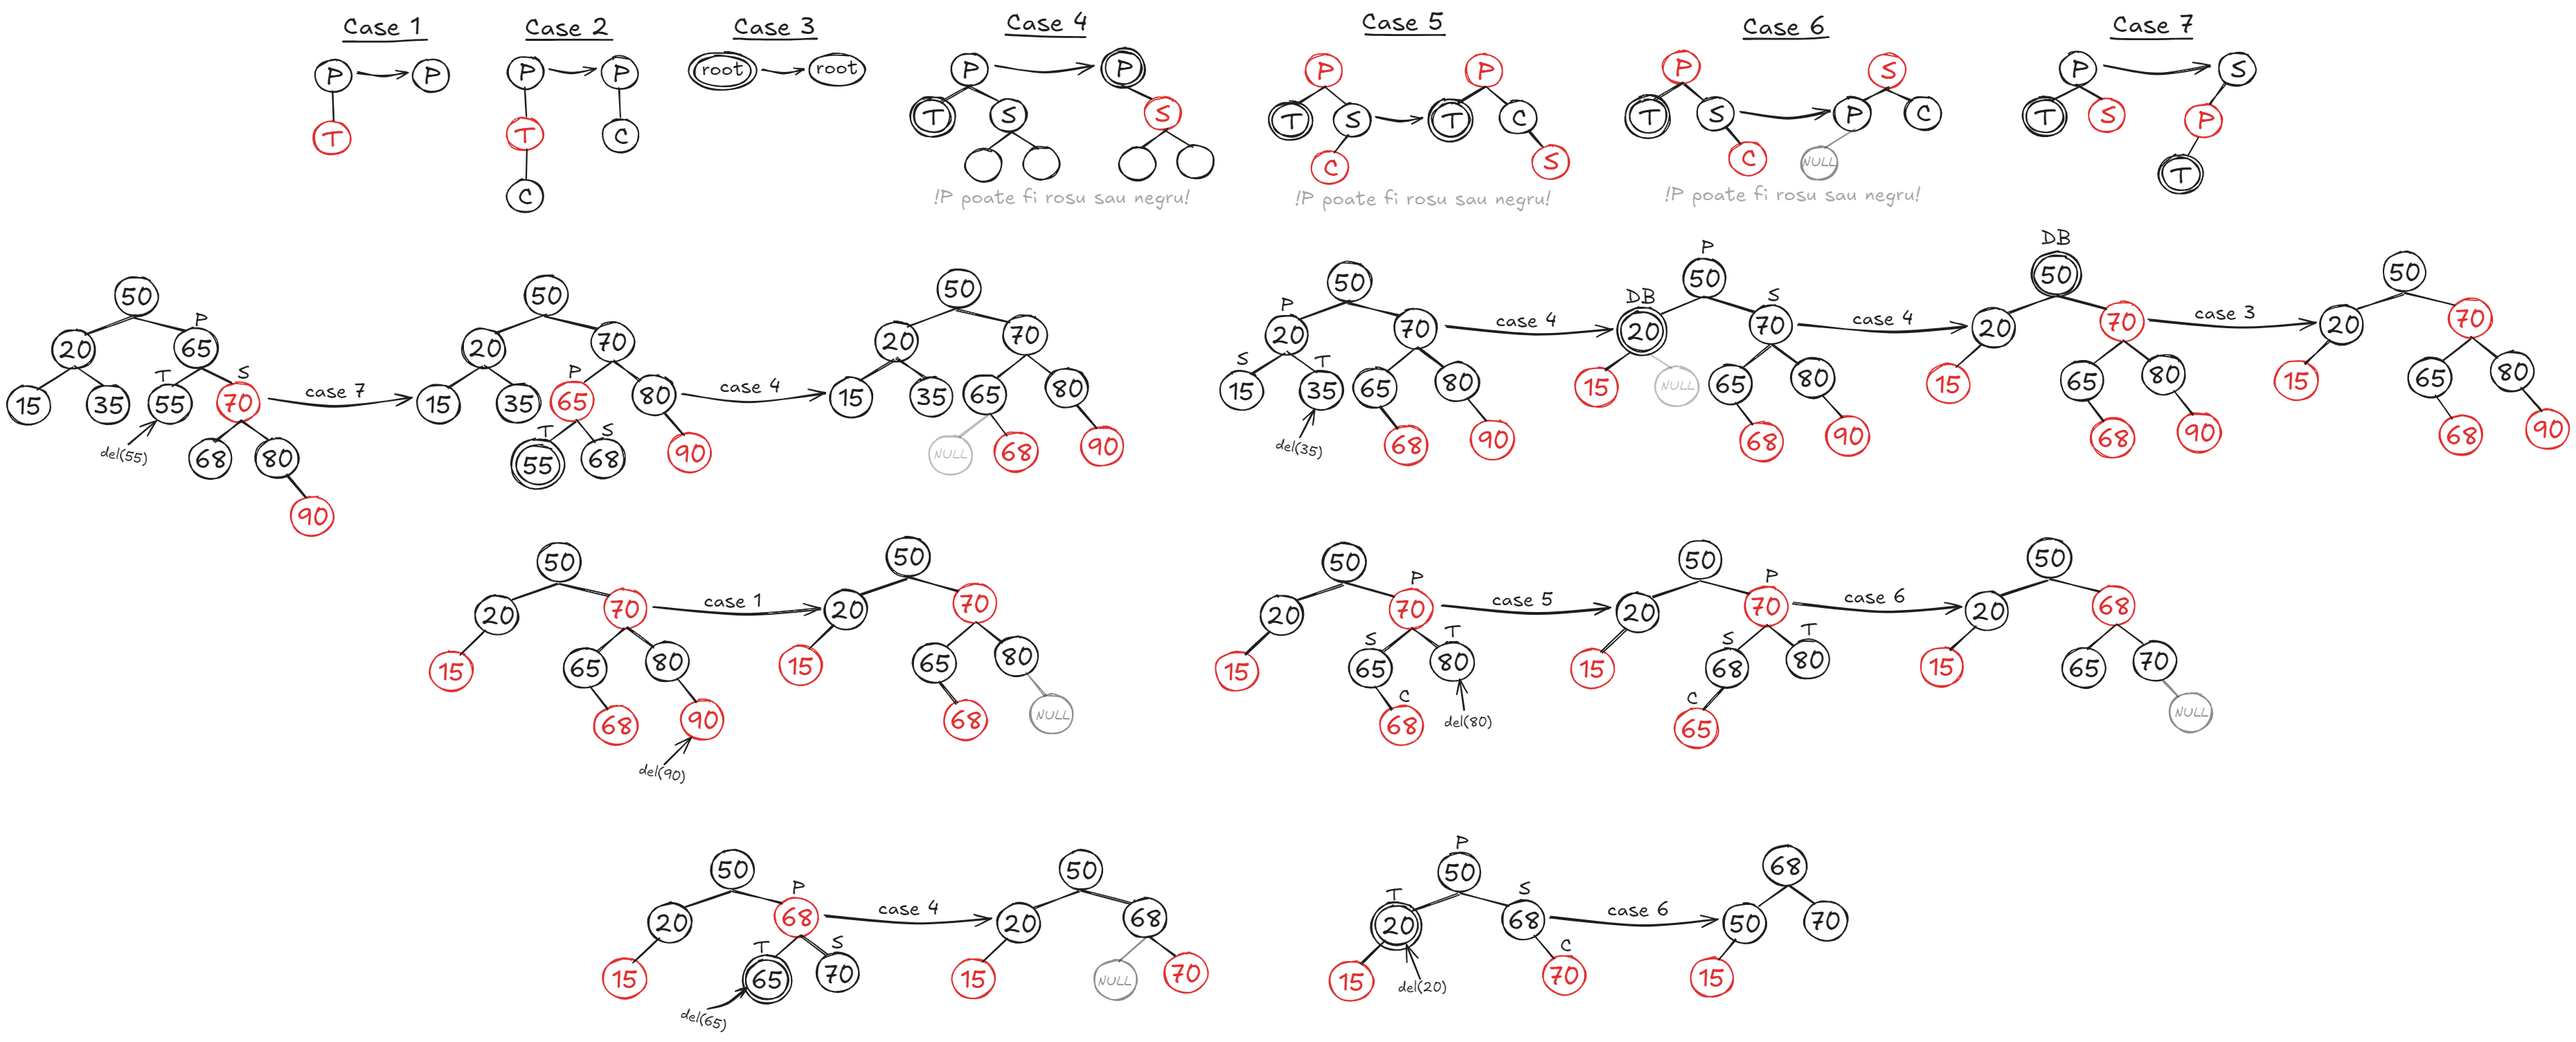
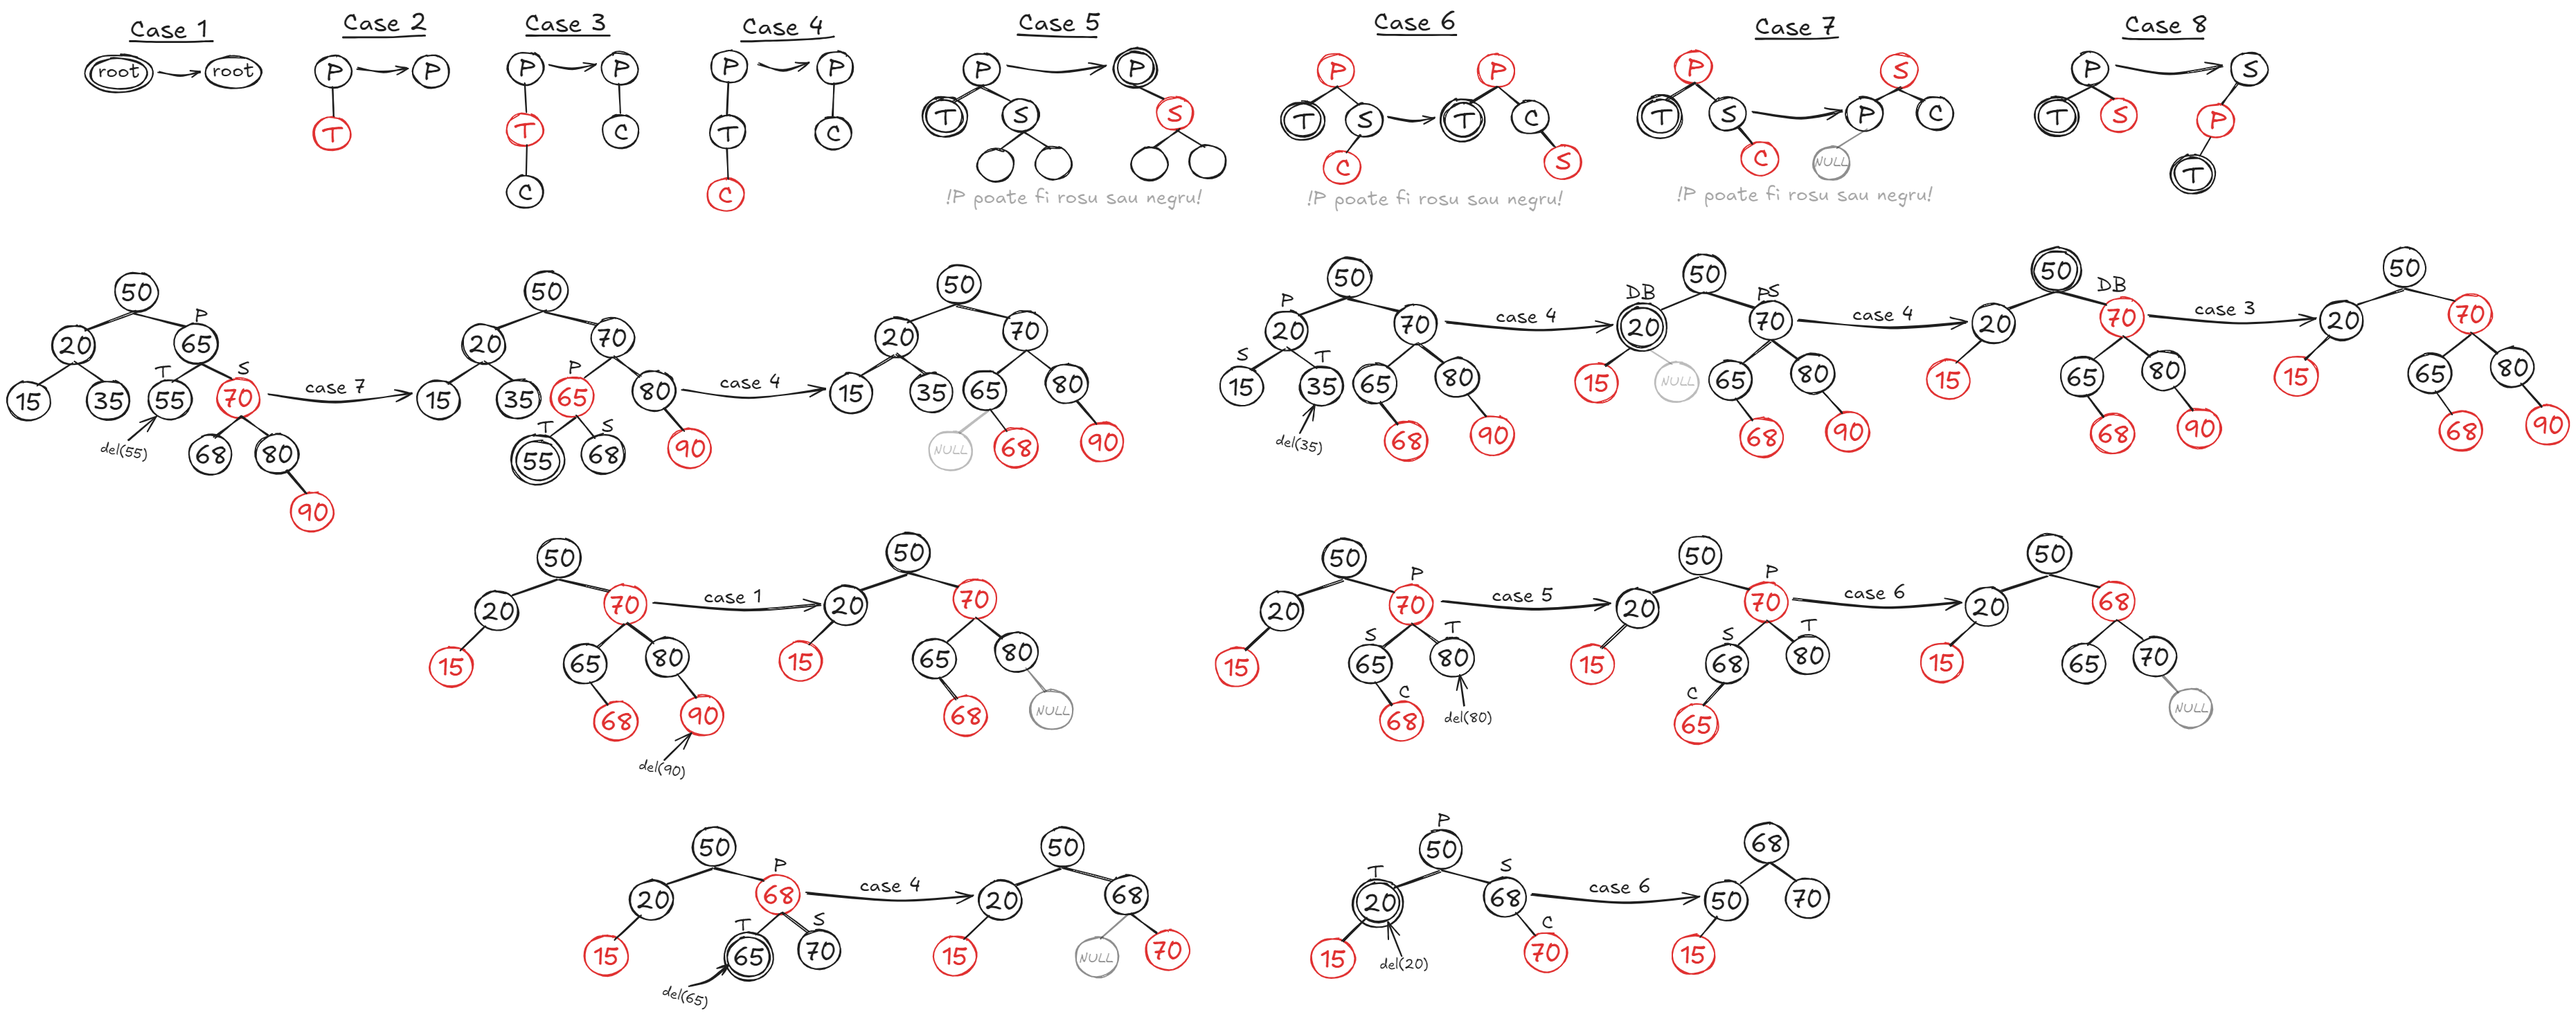
update rb-tree delete

diff --git a/TUTORIAT 5/README.md b/TUTORIAT 5/README.md
@@ -10,7 +10,7 @@
     - [2.2 - Exemplu de Sum Query](#22---exemplu-de-sum-query)
     - [2.3 - Exemplu de Update Query](#23---exemplu-de-update-query)
     - [2.4 - Implementare](#24---implementare)
-  - [3 - Lowest Ancestor & Lowest Common Ancestor](#3---lowest-ancestor---lowest-common-ancestor)
+  - [3 - Lowest Ancestor & Lowest Common Ancestor](#3---lowest-ancestor--lowest-common-ancestor)
     - [3.1 - Lowest Ancestor](#31---lowest-ancestor)
     - [3.2 - Lowest Common Ancestor](#32---lowest-common-ancestor)
   - [4 - Exercitii examen](#4---exercitii-examen)
@@ -52,7 +52,7 @@
 - **Pasul 2**: notam nodul inserat cu **T**, parintele sau cu **P**, bunicul cu **G** si fratele lui **P** cu **S**. Cand inseram un nod, implicit va fi colorat cu **rosu**, iar acest lucru ar putea afecta structura arborelui. Identificam cazul si actionam corespunzator:
     - **Cazul 1**: nodul **T** este radacina => il recoloram cu **negru**.
     - **Cazul 2**: nodul **P** este colorat cu **negru** => proprietatile nu sunt incalcate.
-    - **Cazul 3**: nodul **P** este colorat cu **rosu**. Exista cateva subcazuri:
+    - **Cazul 3**: nodul **P** este colorat cu **rosu**. Exista doua subcazuri:
         - **Cazul 3.1**: nodul **S** este colorat cu **negru** sau este **NULL**. Aplicam rotatii pe nodurile **G-P-T** in functie de caz (**LL/RR/LR/RL**); noua radacina a subarborelui o coloram cu **negru**, iar cei 2 copii vor fi colorati cu **rosu**.
         - **Cazul 3.2**: nodul **S** este colorat cu **rosu**. Coloram nodurile **P** si **S** cu negru, iar pe **G** cu **rosu**. Verificam, din nou, cazurile pe **G** in mod recursiv (deoarece parintele lui **G** ar putea fi un nod **rosu**).
 
@@ -63,14 +63,14 @@
 ### <ins>1.4 - Delete</ins>
 - **Pasul 1**: stergem nodul ca intr-un BST normal.
 - **Pasul 2**: notam nodul sters cu **T**, fratele sau cu **S** si parintele sau cu **P** (**OBSERVATIE**: nodul sters mereu o sa fie o frunza sau un nod cu un copil, datorita modului in care functioneaza stergerea la BST-uri). Introducem o noua notiune de **double-black (DB)**: daca am sters un nod colorat cu **negru**, se modifica **black-height-ul** arborelui si trebuie sa "plimbam" culoarea stearsa prin arbore, pana ii gasim o noua pozitie. Ca sa scapam de **DB** si sa reparam proprietatile, exista urmatoarele cazuri:
-    - **Cazul 1**: nodul **T** este o **frunza rosie** => nu facem nimic, deoarece nu sunt incalcate proprietati.
-    - **Cazul 2**: nodul **T** este colorat cu **rosu** si are un singur fiu => nu facem nimic, deoarece nu sunt incalcate proprietati.
-    - **Cazul 3**: nodul **T** este radacina => ne oprim. Chiar daca este colorat cu **negru**, nu se intampla nimic daca il stergem. De asemenea, **DB-ul** se anuleaza in radacina (de tinut minte pentru urmatoarele cazuri). 
-    - **Cazul 4**: nodul **T** este colorat cu **negru**, nodul **S** este colorat cu **negru**, iar copiii lui **S** sunt **NULL** sau colorati cu **negru**. Il coloram pe **S** cu **rosu**; daca **P** este **rosu**, il coloram cu **negru**, si daca este deja colorat cu **negru** il facem **DB** si aplicam recursiv verificarea pe el.
-    - **Cazul 5**: nodul **T** este colorat cu **negru**, nodul **S** este colorat cu **negru**, iar copilul lui **S** mai apropiat de **T** este colorat cu **rosu**. Notam copilul respectiv cu **C**. Dam swap intre culorile lui **S** si **C** si aplicam o rotatie ca sa il tragem pe **S** mai departe de **T** (adica spre celalalt copil - fratele lui **C**). In final, aplicam **cazul 6**.
-    - **Cazul 6**: nodul **T** este colorat cu **negru**, nodul **S** este colorat cu **negru**, iar copilul lui **S** mai indepartat de **T** este colorat cu **rosu**. Notam copilul respectiv cu **C**. Dam swap intre culorile lui **S** si **P**, il coloram pe **C** cu **negru** si aplicam o rotatie ca sa il tragem pe **P** in directia lui **T**. 
-    - **Cazul 7**: nodul **T** este colorat cu **negru**, iar nodul **S** este colorat cu **rosu**. Nodul **T** devine **DB**. Dam swap la culorile lui **P** si **S**, si aplicam o rotatie ca sa il tragem pe **P** in directia lui **T**. Aplicam din nou recursiv verificarea de caz pe **T**, deoarece inca este **DB**.
-- **Observatie**: cand verificam **cazurile 5 si 6**, mai intai verificam copilul indepartat; daca este colorat cu **rosu**, avem **cazul 6**. Altfel, il verificam pe cel apropiat.
+    - **Cazul 1**: nodul **T** este radacina => ne oprim. Chiar daca este colorat cu **negru**, nu se intampla nimic daca il stergem. De asemenea, de tinut minte pentru urmatoarele cazuri ca **DB-ul** se anuleaza in radacina.
+    - **Cazul 2**: nodul **T** este o **frunza rosie** => nu facem nimic, deoarece nu sunt incalcate proprietati.
+    - **Cazul 3**: nodul **T** este colorat cu **rosu** si are un singur fiu => nu facem nimic, deoarece nu sunt incalcate proprietati.
+    - **Cazul 4**: nodul **T** este colorat cu **negru** si are un singur fiu colorat cu **rosu** => fiul lui **T** va fi colorat cu **negru** (**DB-ul** se duce in fiu).
+    - **Cazul 5**: nodul **T** este colorat cu **negru**, nodul **S** este colorat cu **negru**, iar copiii lui **S** sunt **NULL** sau colorati cu **negru**. Il coloram pe **S** cu **rosu**; daca **P** este **rosu**, il coloram cu **negru**, si daca este deja colorat cu **negru** il facem **DB** si aplicam recursiv verificarea pe el.
+    - **Cazul 6**: nodul **T** este colorat cu **negru**, nodul **S** este colorat cu **negru**, iar copilul lui **S** mai apropiat de **T** este colorat cu **rosu** (**observatie**: mai intai verificam copilul indepartat; daca acesta este colorat cu **rosu**, ignoram culoarea celui apropiat si devine **cazul 7**). Notam copilul respectiv cu **C**. Dam swap intre culorile lui **S** si **C** si aplicam o rotatie ca sa il tragem pe **S** mai departe de **T** (adica spre celalalt copil - fratele lui **C**). In final, aplicam **cazul 7**.
+    - **Cazul 7**: nodul **T** este colorat cu **negru**, nodul **S** este colorat cu **negru**, iar copilul lui **S** mai indepartat de **T** este colorat cu **rosu**. Notam copilul respectiv cu **C**. Dam swap intre culorile lui **S** si **P**, il coloram pe **C** cu **negru** si aplicam o rotatie ca sa il tragem pe **P** in directia lui **T**. 
+    - **Cazul 8**: nodul **T** este colorat cu **negru**, iar nodul **S** este colorat cu **rosu**. Nodul **T** devine **DB**. Dam swap la culorile lui **P** si **S**, si aplicam o rotatie ca sa il tragem pe **P** in directia lui **T**. Aplicam din nou recursiv verificarea de caz pe **T**, deoarece inca este **DB**.
 
 ![Image](images/rb-trees/delete.png)
 
